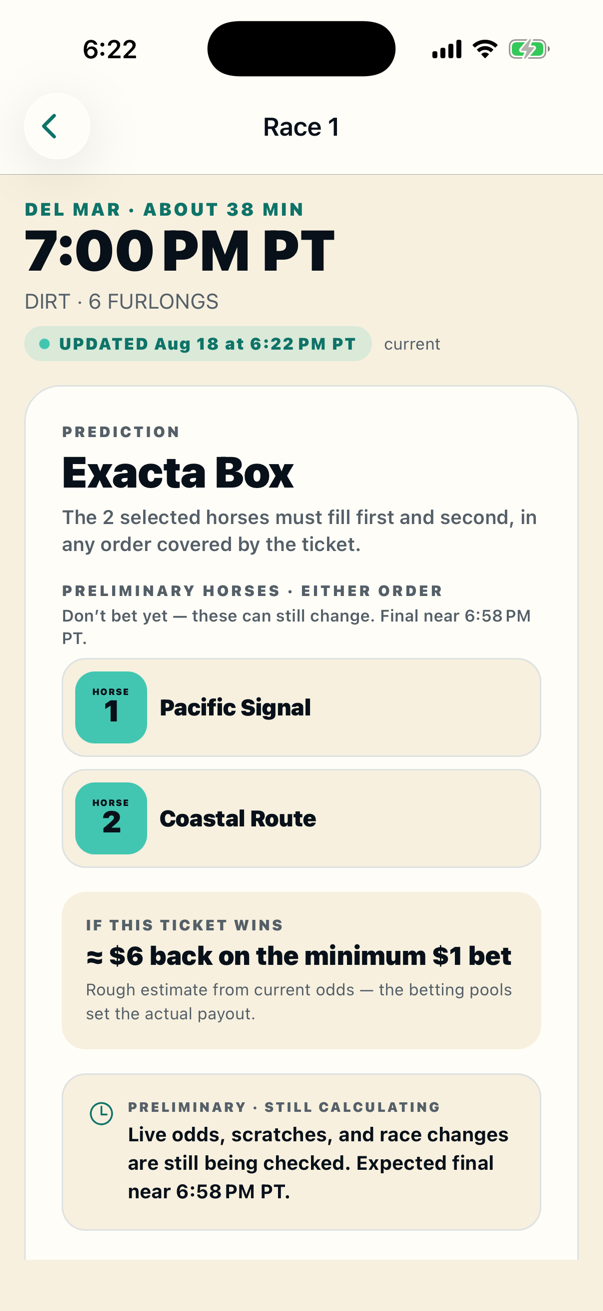
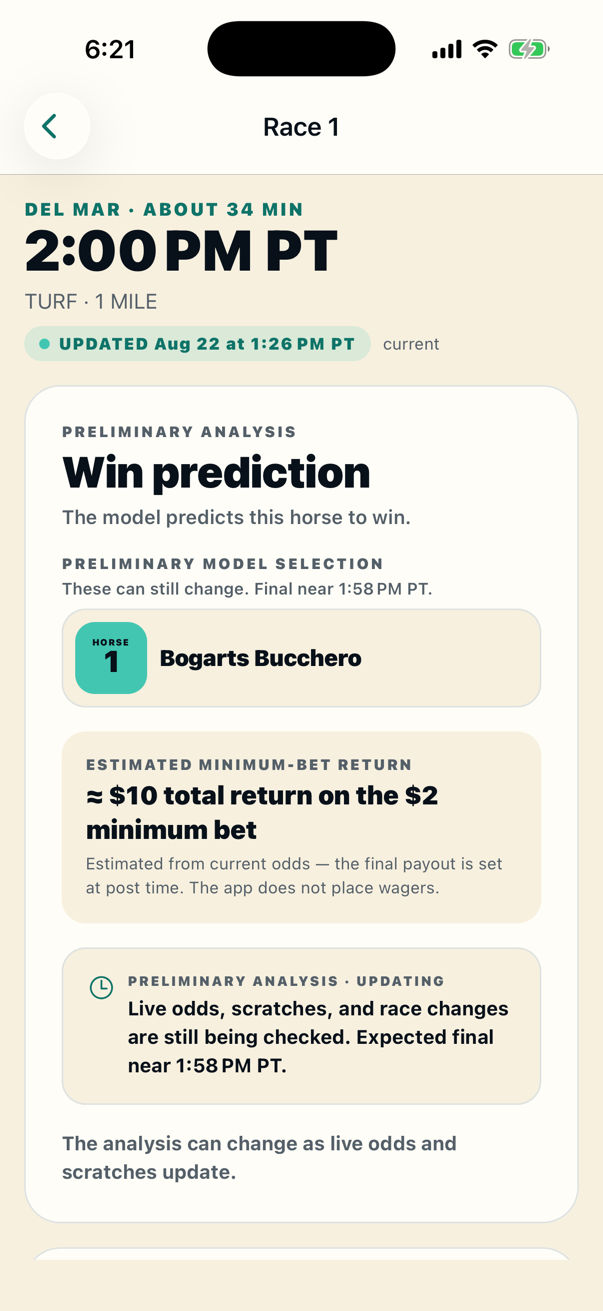
Align public site with App Store build 25

diff --git a/index.html b/index.html
@@ -40,10 +40,10 @@
         "@context": "https://schema.org",
         "@type": "FAQPage",
         "mainEntity": [
-          { "@type": "Question", "name": "Does the app execute or transmit wagers?", "acceptedAnswer": { "@type": "Answer", "text": "No. The app provides wagering advice: it may display an optional real-world ticket, an adjustable suggested total up to $5, a rough estimated return, and teller wording. It does not accept deposits or wagering funds, create a wagering account, hold a wagering balance or credits, execute or transmit a wager, connect to a betting operator, or operate a simulated betting game or virtual bankroll. Any wagering transaction and exchange of wagering funds occur entirely outside the app." } },
+          { "@type": "Question", "name": "Does the app execute or transmit wagers?", "acceptedAnswer": { "@type": "Answer", "text": "No. The app labels its model selection by prediction type, shows analysis confidence, and may estimate the total return for the track's minimum stake using current odds. It has no adjustable stake control, teller wording, betting-window instructions, wagering account, deposit flow, wallet, credits, betting-operator connection, or wager execution or transmission. Any wagering decision and transaction occur entirely outside the app." } },
           { "@type": "Question", "name": "What does the season pass purchase?", "acceptedAnswer": { "@type": "Answer", "text": "The non-renewing season pass unlocks analytical recommendations for the Del Mar season and end date shown before purchase. The app and App Store show the exact price and covered period before confirmation. It never renews automatically and is not a deposit, balance, wagering credit, virtual currency, or payment method for a wager." } },
-          { "@type": "Question", "name": "Is recommendation confidence my chance of winning?", "acceptedAnswer": { "@type": "Answer", "text": "No. The confidence meter shows how clearly the available information supports the prediction. Steadier evidence fills more of the meter. It is not a predicted win percentage and does not guarantee an outcome." } },
-          { "@type": "Question", "name": "What information does the analysis use?", "acceptedAnswer": { "@type": "Answer", "text": "The current prediction model ranks the active horses using public morning-line odds and past Del Mar results: each horse's local record, its trainer and jockey, their pairing, and post-position performance by surface and distance. Closer to the race, current odds for the leading selection are checked and can affect the final ticket." } },
+          { "@type": "Question", "name": "Is analysis confidence my chance of winning?", "acceptedAnswer": { "@type": "Answer", "text": "No. The confidence meter shows how clearly the available information supports the prediction. Steadier evidence fills more of the meter. It is not a predicted win percentage and does not guarantee an outcome." } },
+          { "@type": "Question", "name": "What information does the analysis use?", "acceptedAnswer": { "@type": "Answer", "text": "The current prediction model ranks the active horses using public morning-line odds and past Del Mar results: each horse's local record, its trainer and jockey, their pairing, and post-position performance by surface and distance. Closer to the race, current odds for the leading selection are checked and can affect the final prediction." } },
           { "@type": "Question", "name": "When do live recommendations begin?", "acceptedAnswer": { "@type": "Answer", "text": "The app starts checking live odds about two hours before the day's first race and shows the expected opening time on the Races screen. Before then, Recommendations Open Later is a normal scheduled state, not a data error." } },
           { "@type": "Question", "name": "How is the algorithm backed by research?", "acceptedAnswer": { "@type": "Answer", "text": "The model was developed using more than 1,800 archived Del Mar races with matched official results. Its full probability estimates are compared using established scoring measures, including log loss and Brier score, while short histories are pulled toward a neutral baseline. An independent adversarial audit found no direct current-outcome or future-history leakage and led to seven corrections. The audit did not establish that the current model is statistically superior to the prior model, and neither the research nor the app claims a guaranteed winner, profit, or proven betting edge." } },
           { "@type": "Question", "name": "Why is my recommendation preliminary?", "acceptedAnswer": { "@type": "Answer", "text": "Live odds, scratches, and race changes can alter the calculation. The status tells you what's still updating and when the recommendation is expected to be final." } },
@@ -92,7 +92,7 @@
         </div>
         <div class="hero-visual" role="img" aria-label="Preview of the Horse Racing Companion Today screen">
           <div class="phone-shell">
-            <img src="assets/today-preview.png" alt="Horse Racing Companion Today screen showing a strong-play prediction for Race 1 with the horses to bet" width="603" height="1311">
+            <img src="assets/today-preview.png" alt="Horse Racing Companion Today screen showing an explicit Win prediction and the strongest model signal" width="603" height="1311">
           </div>
         </div>
       </section>
@@ -205,7 +205,7 @@
           <article class="step-card accent-card">
             <span class="step-number">02</span>
             <h3>Review the pick</h3>
-            <p>Preliminary means live information can still change the analysis. Final means the race-day calculation is complete. When one horse or group clearly stands out, the selection is marked as a strong play. A genuinely unclear race may show no recommendation.</p>
+            <p>Preliminary means live information can still change the analysis. Final means the race-day calculation is complete. The prediction is labeled by type, such as Win, Place, or Show, and the strongest model signal is highlighted. A genuinely unclear race may show no model selection.</p>
           </article>
           <article class="step-card">
             <span class="step-number">03</span>
@@ -220,7 +220,7 @@
           <div class="screen-stack" role="img" aria-label="Preview of a race recommendation">
             <div class="screen-glow"></div>
             <div class="phone-shell detail-phone">
-              <img src="assets/race-preview.png" alt="Race detail showing a preliminary ticket, selected horses, and recommendation confidence" width="603" height="1311" loading="lazy">
+              <img src="assets/race-preview.png" alt="Race detail showing a Win prediction and an estimated total return for the track minimum stake" width="603" height="1311" loading="lazy">
             </div>
           </div>
           <div class="product-copy">
@@ -231,7 +231,7 @@
                 <span class="feature-marker">#</span>
                 <div>
                   <h3>Program number + horse name</h3>
-                  <p>The program number is the horse number shown on track screens and used on the betting ticket, not a predicted finishing position.</p>
+                  <p>The program number is the horse number shown on track screens and used to identify the horse, not a predicted finishing position.</p>
                 </div>
               </article>
               <article>
@@ -278,9 +278,9 @@
             <p>Odds, scratches, or other live information still need to settle.</p>
           </article>
           <article class="decision-card skip">
-            <span>NO BET</span>
+            <span>NO SELECTION</span>
             <h3>The race is unusually unclear</h3>
-            <p>The app doesn't force a ticket when no horse or small group stands out.</p>
+            <p>The app doesn't force a model selection when no horse or small group stands out.</p>
           </article>
         </div>
       </section>
@@ -305,19 +305,19 @@
         <div class="faq-list">
           <details>
             <summary>Does the app execute or transmit wagers?</summary>
-            <p>No. The app provides wagering advice: it may display an optional real-world ticket, let you adjust the suggested total up to $5, show a rough estimated return, and provide teller wording. It does not accept deposits or wagering funds, create a wagering account, hold a wagering balance or credits, execute or transmit a wager, connect to a betting operator, or operate a simulated betting game or virtual bankroll. Any wagering transaction and exchange of wagering funds occur entirely outside the app.</p>
+            <p>No. The app labels its model selection by prediction type, shows analysis confidence, and may estimate the total return for the track&rsquo;s minimum stake using current odds. It has no adjustable stake control, teller wording, betting-window instructions, wagering account, deposit flow, wallet, credits, betting-operator connection, or wager execution or transmission. Any wagering decision and transaction occur entirely outside the app.</p>
           </details>
           <details>
             <summary>What does the season pass purchase?</summary>
             <p>The non-renewing season pass unlocks analytical recommendations for the Del Mar season and end date shown before purchase. The app and App Store show the exact price and covered period before confirmation. It never renews automatically and is not a deposit, balance, wagering credit, virtual currency, or payment method for a wager.</p>
           </details>
           <details>
-            <summary>Is recommendation confidence my chance of winning?</summary>
+            <summary>Is analysis confidence my chance of winning?</summary>
             <p>No. The confidence meter shows how clearly the available information supports the prediction. Steadier evidence fills more of the meter. It is not a predicted win percentage and does not guarantee an outcome.</p>
           </details>
           <details>
             <summary>What information does the analysis use?</summary>
-            <p>The current prediction model ranks the active horses using public morning-line odds and past Del Mar results: each horse’s local record, its trainer and jockey, their pairing, and post-position performance by surface and distance. Scratches determine who remains in the comparison. Closer to the race, current odds for the leading selection are checked and can affect the final ticket.</p>
+            <p>The current prediction model ranks the active horses using public morning-line odds and past Del Mar results: each horse’s local record, its trainer and jockey, their pairing, and post-position performance by surface and distance. Scratches determine who remains in the comparison. Closer to the race, current odds for the leading selection are checked and can affect the final prediction.</p>
           </details>
           <details>
             <summary>When do live recommendations begin?</summary>

diff --git a/terms/index.html b/terms/index.html
@@ -38,13 +38,13 @@
           <p>Do not use the app if you are prohibited from wagering, are participating in a race in a capacity that restricts wagering, or would violate an employer, racing authority, or venue rule.</p>
 
           <h2 id="service">What the service does and does not do</h2>
-          <p>Horse Racing Companion provides independent wagering advice based on public horse-racing data. It may display race cards, odds, scratches, changes, preliminary or final recommendations, confidence labels, a suggested real-world ticket, an adjustable suggested total up to $5, a rough estimated return, teller wording, and comparisons of frozen recommendations with official results.</p>
+          <p>Horse Racing Companion provides independent wagering analysis based on public horse-racing data. It may display race cards, odds, scratches, changes, preliminary or final model selections, explicit prediction-type labels such as Win, Place, or Show, analysis confidence, a rough estimated total return for the track&rsquo;s minimum stake using current odds, and comparisons of frozen recommendations with official results.</p>
           <div class="legal-callout"><p><strong>Horse Racing Companion is not a wagering operator.</strong></p><p>It does not accept deposits or wagering funds, hold a wagering balance, create betting accounts, sell wagering credits or virtual currency, execute or transmit wagers, connect to a betting operator, settle a user wagering account, or receive a share of a wager. Any wagering transaction and exchange of wagering funds happen outside the app. It is not affiliated with, endorsed by, or sponsored by Del Mar Thoroughbred Club.</p></div>
 
           <h2 id="decisions">Recommendations and your decisions</h2>
           <p>Recommendations are estimates based on available information and model assumptions. Racing is uncertain. Data can be delayed, incomplete, incorrect, or change after a recommendation. The confidence meter describes the clarity of the available information; it is not a probability of winning. No recommendation guarantees a result or profit.</p>
-          <p>A preliminary recommendation can change as current odds, scratches, or other race information changes. A final recommendation may still lose. The app may show no bet when a field is unusually unclear or when missing, delayed, or changed data prevents a safe ticket.</p>
-          <p>You alone decide whether to wager, what to say to a teller, whether a ticket is correct before accepting it, and how much you can afford to lose. Always confirm the track, race, bet type, horse program numbers, base amount, combinations, and total on the issued ticket before leaving the window.</p>
+          <p>A preliminary recommendation can change as current odds, scratches, or other race information changes. A final recommendation may still lose. The app may show no model selection when a field is unusually unclear or when missing, delayed, or changed data prevents a reliable analysis.</p>
+          <p>You alone decide whether to wager and how much you can afford to lose. The app does not provide teller wording, betting-window instructions, an adjustable stake control, or a mechanism to place or transmit a wager. Any wagering decision and transaction occur independently outside the app.</p>
 
           <h2 id="purchases">Free days and season passes</h2>
           <p>The first three Del Mar racing days intentionally unlocked on an installation are complimentary. After those days are used, the app may offer a non-renewing season pass that unlocks analytical recommendations for the Del Mar season and end date displayed before purchase. The app and App Store show the exact price and covered period before confirmation. The pass does not renew automatically.</p>
@@ -53,7 +53,7 @@
 
           <h2 id="availability">Data and service availability</h2>
           <p>We may change, suspend, limit, or discontinue features, data sources, tracks, supported dates, models, or access when reasonably needed for safety, accuracy, maintenance, legal compliance, or product development. Live information may be unavailable because of network, source, venue, device, or service conditions.</p>
-          <p>We may correct errors and invalidate a recommendation when a scratch, stale price, incomplete ticket, or other safety condition is detected. Historical displays may be revised to reflect official corrections while preserving the originally frozen decision where appropriate.</p>
+          <p>We may correct errors and invalidate a recommendation when a scratch, stale price, incomplete data, or other safety condition is detected. Historical displays may be revised to reflect official corrections while preserving the originally frozen decision where appropriate.</p>
 
           <h2 id="license">License and acceptable use</h2>
           <p>Subject to these terms and Apple’s Standard EULA, you receive a limited, personal, non-exclusive, non-transferable, revocable license to use the app for lawful, noncommercial purposes.</p>
@@ -65,8 +65,8 @@
 
           <h2 id="liability">Disclaimers and limitation of liability</h2>
           <p>To the maximum extent permitted by law, the service is provided “as is” and “as available,” without warranties of accuracy, availability, merchantability, fitness for a particular purpose, non-infringement, or wagering outcome.</p>
-          <p>To the maximum extent permitted by law, Brett Pollak and Horse Racing Companion will not be liable for indirect, incidental, special, consequential, exemplary, or punitive damages; lost winnings, lost profits, or wagering losses; an incorrect or rejected ticket; or loss arising from delayed, missing, or inaccurate data. Nothing in these terms excludes liability or consumer rights that cannot lawfully be excluded.</p>
-          <p>You agree to use reasonable care, verify every issued ticket, and stop using the app if you cannot do so responsibly.</p>
+          <p>To the maximum extent permitted by law, Brett Pollak and Horse Racing Companion will not be liable for indirect, incidental, special, consequential, exemplary, or punitive damages; lost winnings, lost profits, or wagering losses; or loss arising from delayed, missing, or inaccurate data or estimates. Nothing in these terms excludes liability or consumer rights that cannot lawfully be excluded.</p>
+          <p>You agree to use reasonable care and stop using the app if you cannot do so responsibly.</p>
 
           <h2>Termination</h2>
           <p>You may stop using the service at any time. We may suspend access for abuse, fraud, security threats, unlawful use, or material violation of these terms. Provisions that by their nature should survive termination, including ownership, disclaimers, and limitations, will survive.</p>

diff --git a/support/index.html b/support/index.html
@@ -35,28 +35,28 @@
           <span>Replies typically within two business days</span>
         </aside>
         <article id="faq" class="legal-content">
-          <div class="legal-callout"><p><strong>No wager is executed or transmitted by the app.</strong></p><p>Horse Racing Companion provides wagering advice. It may suggest a real-world ticket, let you adjust the suggested total up to $5, estimate a possible return, and give you words to say to a teller. It never accepts deposits or wagering funds, creates a wagering account, holds a wagering balance or credits, or connects to a betting operator. Any wagering transaction and exchange of wagering funds happen outside the app.</p></div>
-          <div class="legal-callout"><p><strong>Waiting for live recommendations?</strong></p><p>Live recommendations normally begin about two hours before the day&rsquo;s first race. The Races screen shows the expected opening time. Before then, <strong>Recommendations Open Later</strong> is normal. If the app instead says <strong>Live Updates Delayed</strong> after that window opens, pull down to refresh; the app hides current ticket instructions, protects your free day, and keeps checking automatically.</p></div>
+          <div class="legal-callout"><p><strong>No wager is executed or transmitted by the app.</strong></p><p>Horse Racing Companion labels its model selection by prediction type, shows analysis confidence, and may estimate the total return for the track&rsquo;s minimum stake using current odds. It has no adjustable stake control, teller wording, betting-window instructions, wagering account, deposit flow, wallet, credits, betting-operator connection, or wager execution or transmission. Any wagering decision and transaction happen outside the app.</p></div>
+          <div class="legal-callout"><p><strong>Waiting for live recommendations?</strong></p><p>Live recommendations normally begin about two hours before the day&rsquo;s first race. The Races screen shows the expected opening time. Before then, <strong>Recommendations Open Later</strong> is normal. If the app instead says <strong>Live Updates Delayed</strong> after that window opens, pull down to refresh; the app hides current predictions, protects your free day, and keeps checking automatically.</p></div>
 
           <h2>Recommendation status</h2>
           <h3>When do live recommendations begin?</h3>
           <p>The app starts checking live odds about two hours before the day&rsquo;s first race. Because first-post times vary, use the opening time shown on the Races screen for that day.</p>
-          <h3>What do Preliminary, Final, and No bet mean?</h3>
-          <p><strong>Preliminary</strong> means current odds, scratches, or other race changes can still alter the recommendation. <strong>Final</strong> means the race-day calculation is complete. <strong>No bet</strong> means the field is unusually unclear or the app cannot safely provide a ticket.</p>
+          <h3>What do Preliminary, Final, and No selection mean?</h3>
+          <p><strong>Preliminary</strong> means current odds, scratches, or other race changes can still alter the recommendation. <strong>Final</strong> means the race-day calculation is complete. <strong>No selection</strong> means the field is unusually unclear or the app cannot safely provide a model selection.</p>
           <h3>Why does the app say Preliminary?</h3>
           <p>The recommendation is still being recalculated with odds, scratches, or other race changes. The status area tells you what remains and when the race calculation is expected to finish.</p>
-          <h3>What does recommendation confidence mean?</h3>
+          <h3>What does analysis confidence mean?</h3>
           <p>The confidence meter shows how clearly the available information supports the prediction. Steadier evidence fills more of the meter. It is not the chance of winning, and a confident prediction can still lose.</p>
 
-          <h2>Reading a ticket</h2>
+          <h2>Reading a prediction</h2>
           <h3>Is the program number the horse number?</h3>
-          <p>Yes. The program number is the number used on track screens and betting tickets. It is not a prediction that the horse will finish in that position.</p>
-          <h3>What should I say at the betting window?</h3>
-          <p>A final recommendation displays the teller-ready view. It provides the track, race, base amount, bet type, and program numbers in the standard order. You can read it aloud or show the screen to the teller.</p>
+          <p>Yes. The program number is the number used on track screens to identify the horse. It is not a prediction that the horse will finish in that position.</p>
+          <h3>What do Win, Place, and Show prediction labels mean?</h3>
+          <p>The label states the outcome the model is predicting for the selected horse. For example, <strong>Win prediction</strong> means the model predicts that horse to win; <strong>Show prediction</strong> means it predicts the horse to finish first, second, or third. The label describes the prediction, not a guarantee.</p>
           <h3>Can the app place the bet?</h3>
-          <p>No. The app provides a suggested real-world ticket and teller wording, but it cannot accept wagering funds, open a wagering account, execute or transmit a wager, or guarantee that a teller accepts a ticket. You decide whether to act on the advice and conduct any wagering transaction yourself, outside the app.</p>
-          <h3>Does the app keep track of my selected amount or potential return?</h3>
-          <p>The app saves your selected suggested-ticket total for that race on your iPhone so the screen remains consistent. It may also show a rough estimated return based on current odds and later compare its frozen recommendation with the official result. It does not know whether you actually placed the wager, does not create a virtual bankroll, and does not settle a user wagering account.</p>
+          <p>No. The app cannot accept wagering funds, open a wagering account, execute or transmit a wager, or connect to a betting operator. You decide whether to act on the analysis and conduct any wagering transaction yourself, outside the app.</p>
+          <h3>How is the estimated minimum-bet return calculated?</h3>
+          <p>The race detail may show a rough estimated total return for the track&rsquo;s displayed minimum stake using the current odds. It is informational, not an adjustable stake or guaranteed payout. Final pools and the odds at post time determine any actual payout, and the app does not know whether you placed a wager.</p>
 
           <h2>Free days and season access</h2>
           <h3>When is a free day used?</h3>

diff --git a/privacy/index.html b/privacy/index.html
@@ -45,7 +45,7 @@
           <h3>Purchase verification</h3>
           <p>If you buy or restore a season pass, Apple processes the payment. The app sends Apple’s signed transaction to our service so it can verify access. The service does not retain the signed transaction itself. It stores a cryptographic hash of it, Apple transaction and original-transaction identifiers, product identifier, purchase date, Apple environment, transaction status, and the related entitlement dates and status. For Apple server notifications, the service stores the notification identifier and type, related transaction identifier when present, received time, and whether it was processed; it does not retain the signed notification. We do not receive your payment-card number, Apple Account password, or full Apple purchase history.</p>
           <h3>Information kept only on the device</h3>
-          <p>The app stores cached race cards, race details, access status, onboarding completion, your race-reminder preference, and the suggested-ticket total you select for a race in local app storage. The selected total keeps the displayed recommendation and teller wording consistent on your device; it is not a record that you placed or paid for a wager and is not sent to a betting operator. If you turn on race reminders, iOS asks for notification permission and the app schedules local notifications on your iPhone; the preference and schedule stay on the device and are not sent to our service. The installation identifier is also stored locally. As explained above, it is sent to the service for app access.</p>
+          <p>The app stores cached race cards, race details, access status, onboarding completion, and your race-reminder preference in local app storage. It does not store a user-selected wagering amount or a record that you placed or paid for a wager. If you turn on race reminders, iOS asks for notification permission and the app schedules local notifications on your iPhone; the preference and schedule stay on the device and are not sent to our service. The installation identifier is also stored locally. As explained above, it is sent to the service for app access.</p>
           <h3>Network and hosting information</h3>
           <p>When the app contacts the service, Railway, our hosting provider, may process the IP address, request time, requested path, response status, and similar security or diagnostic information in infrastructure logs. Horse Racing Companion does not use that information for advertising or cross-app tracking.</p>
           <h3>Website visits and support messages</h3>

diff --git a/review-information/index.html b/review-information/index.html
@@ -43,7 +43,7 @@
           <p>The first three intentionally unlocked racing days are complimentary. Afterward, the app may offer a non-renewing season pass for the exact season, price, and end date displayed before purchase. Restore Purchases checks the same Apple Account. The purchase unlocks app analysis; it is not a wagering deposit, balance, credit, or payment method for a wager.</p>
 
           <h2 id="boundary">Wagering boundary</h2>
-          <div class="legal-callout"><p><strong>The app never accepts, executes, routes, or transmits a wager.</strong></p><p>There is no wagering account, deposit flow, wallet, virtual currency, betting-operator connection, or settlement of a user wagering account. Horse Racing Companion does not know whether a user placed a wager.</p></div>
+          <div class="legal-callout"><p><strong>The app never accepts, executes, routes, or transmits a wager.</strong></p><p>Build 25 labels each model selection by prediction type (including Win, Place, and Show where applicable), shows analysis confidence, and may display an estimated total return for the track&rsquo;s minimum stake using current odds. The estimate is informational and is not a guaranteed payout. There is no adjustable stake control, teller wording, betting-window instruction, wagering account, deposit flow, wallet, virtual currency, betting-operator connection, or settlement of a user wagering account. Horse Racing Companion does not know whether a user placed a wager.</p></div>
           <p>The app is rated 18+ because it concerns adult wagering subject matter. It is independent and is not affiliated with, endorsed by, or sponsored by Del Mar Thoroughbred Club.</p>
 
           <h2 id="contact">Review contact</h2>

diff --git a/age-suitability/index.html b/age-suitability/index.html
@@ -37,7 +37,7 @@
             <li>Take breaks and stop if wagering stops feeling voluntary or enjoyable.</li>
             <li>Do not use the app if a racing authority, employer, team, ownership role, or venue rule restricts your wagering.</li>
           </ul>
-          <p>Every prediction can lose. No outcome, profit, or betting edge is guaranteed. A confidence label describes the clarity of the information available to the model; it is not your chance of winning.</p>
+          <p>Every prediction can lose. No outcome, profit, or betting edge is guaranteed. Analysis confidence describes the clarity of the information available to the model; it is not your chance of winning.</p>
 
           <h2 id="help">Confidential help resources</h2>
           <p>If gambling is causing concern for you or someone you know, visit the <a href="https://www.ncpgambling.org/help-treatment/" rel="noopener noreferrer">National Council on Problem Gambling help and treatment directory</a> or call or text <strong>1-800-GAMBLER</strong>. In an immediate emergency, contact local emergency services.</p>
